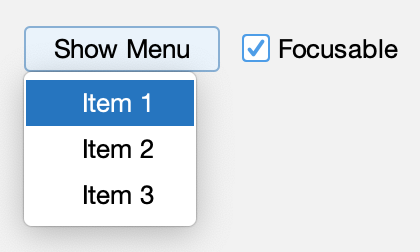
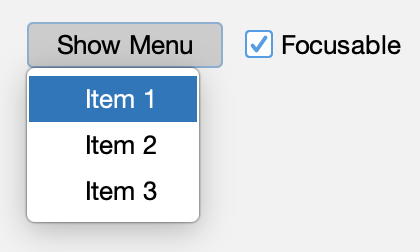
Update MenuButton.

diff --git a/sierra/src/main/java/org/httprpc/sierra/MenuButton.java b/sierra/src/main/java/org/httprpc/sierra/MenuButton.java
@@ -76,12 +76,12 @@ public class MenuButton extends JButton {
         popupMenu.addPopupMenuListener(new PopupMenuListener() {
             @Override
             public void popupMenuWillBecomeVisible(PopupMenuEvent event) {
-                // No-op
+                repaint();
             }
 
             @Override
             public void popupMenuWillBecomeInvisible(PopupMenuEvent event) {
-                // No-op
+                repaint();
             }
 
             @Override
@@ -93,6 +93,11 @@ public class MenuButton extends JButton {
         setComponentPopupMenu(popupMenu);
 
         setModel(new DefaultButtonModel() {
+            @Override
+            public boolean isSelected() {
+                return popupMenu.isVisible();
+            }
+
             @Override
             public void setPressed(boolean pressed) {
                 super.setPressed(pressed);
